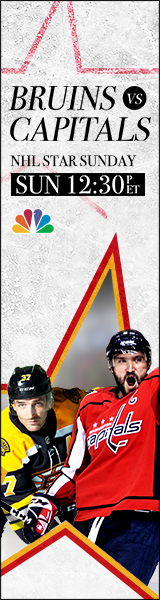
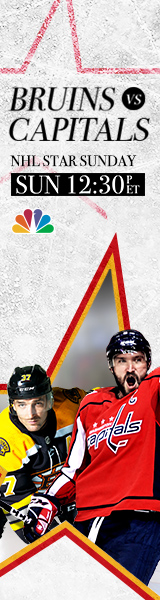
160x600

diff --git a/WNH/020319/html_css/160x600/style.css b/WNH/020319/html_css/160x600/style.css
@@ -90,7 +90,7 @@ body{
 	left: 0px;
 	top: 86px;
 	width: 160px;
-	height: 67px;
+	height: 68px;
 	background: url(images/teams.png) no-repeat;
 }
 
